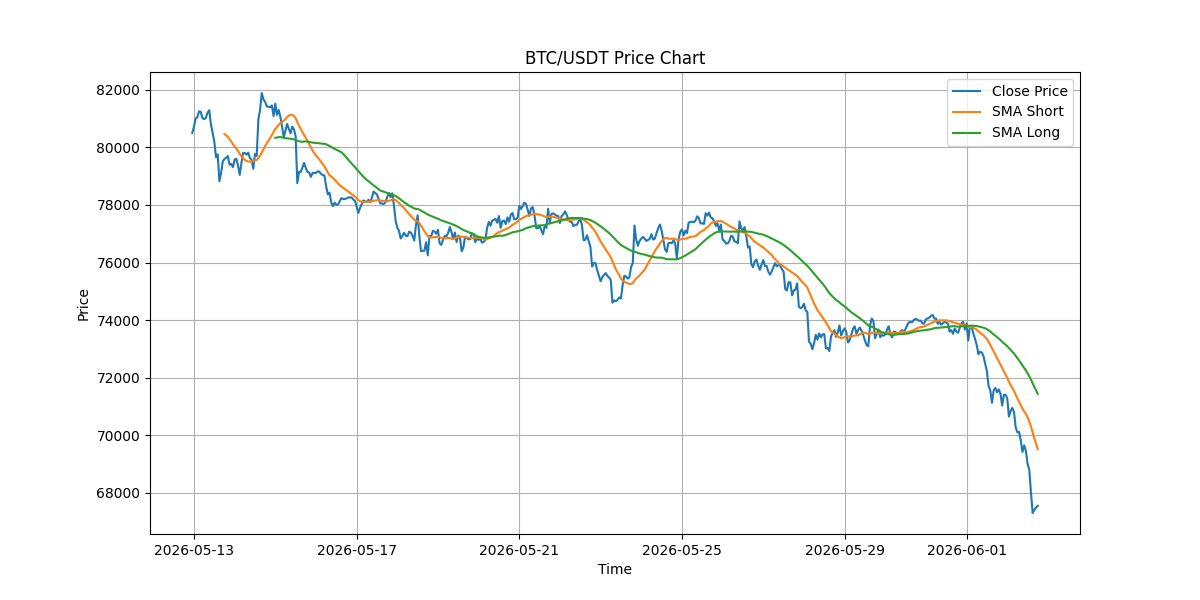
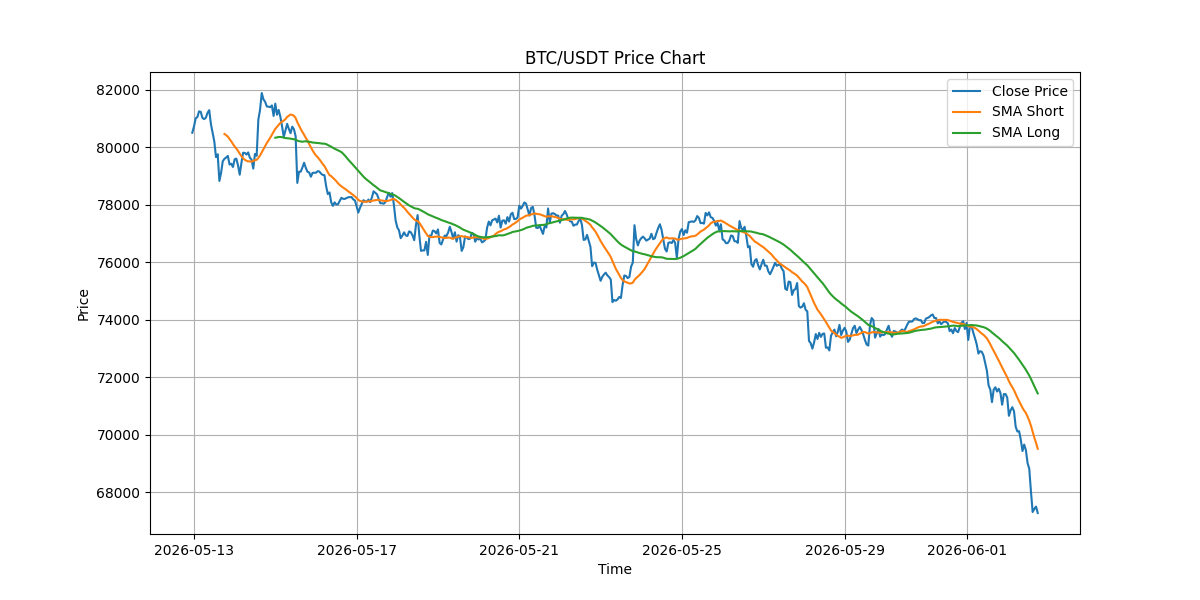
Add stop loss and take profit risk management

diff --git a/backtesting/engine.py b/backtesting/engine.py
@@ -1,3 +1,9 @@
+from config.settings import (
+    STOP_LOSS_PERCENT,
+    TAKE_PROFIT_PERCENT
+)
+
+
 def run_backtest(df):
     starting_balance = 1000
     cash_balance = starting_balance
@@ -21,6 +27,52 @@ def run_backtest(df):
         rsi = float(row["rsi"])
         sma_short = float(row["sma_short"])
         sma_long = float(row["sma_long"])
+
+        if position == "BUY":
+            stop_loss_price = entry_price * (1 - STOP_LOSS_PERCENT / 100)
+            take_profit_price = entry_price * (1 + TAKE_PROFIT_PERCENT / 100)
+
+            if price <= stop_loss_price:
+                exit_value = quantity * price
+                entry_value = quantity * entry_price
+                profit = exit_value - entry_value
+
+                cash_balance = exit_value
+                realized_profit += profit
+                completed_trades += 1
+                losing_trades += 1
+
+                trades.append({
+                    "type": "STOP LOSS",
+                    "price": round(price, 2),
+                    "quantity": round(quantity, 6),
+                    "profit": round(profit, 2)
+                })
+
+                position = None
+                entry_price = 0
+                quantity = 0
+
+            elif price >= take_profit_price:
+                exit_value = quantity * price
+                entry_value = quantity * entry_price
+                profit = exit_value - entry_value
+
+                cash_balance = exit_value
+                realized_profit += profit
+                completed_trades += 1
+                winning_trades += 1
+
+                trades.append({
+                    "type": "TAKE PROFIT",
+                    "price": round(price, 2),
+                    "quantity": round(quantity, 6),
+                    "profit": round(profit, 2)
+                })
+
+                position = None
+                entry_price = 0
+                quantity = 0
 
         if rsi < 30 and sma_short > sma_long and position is None:
             quantity = cash_balance / price

diff --git a/main.py b/main.py
@@ -27,6 +27,12 @@ from utils.storage import save_signal_to_csv, log_signal
 from services.market_data import fetch_candle_data
 from backtesting.engine import run_backtest
 
+from config.settings import (
+    STOP_LOSS_PERCENT,
+    TAKE_PROFIT_PERCENT
+)
+
+
 def main(symbol):
     df = fetch_candle_data(
         symbol=symbol,

diff --git a/config/settings.py b/config/settings.py
@@ -22,3 +22,5 @@ SMA_SHORT_WINDOW = 20
 SMA_LONG_WINDOW = 50
 
 CANDLE_LIMIT = 500
+STOP_LOSS_PERCENT = 5
+TAKE_PROFIT_PERCENT = 10
